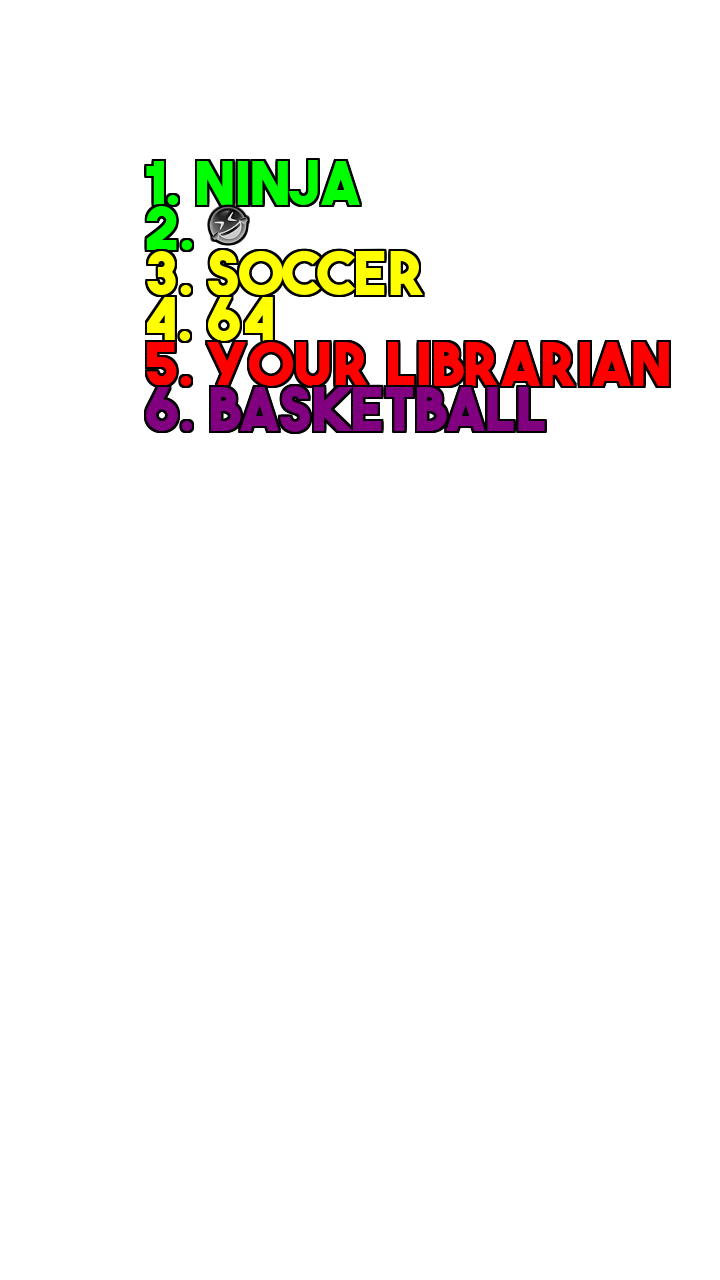
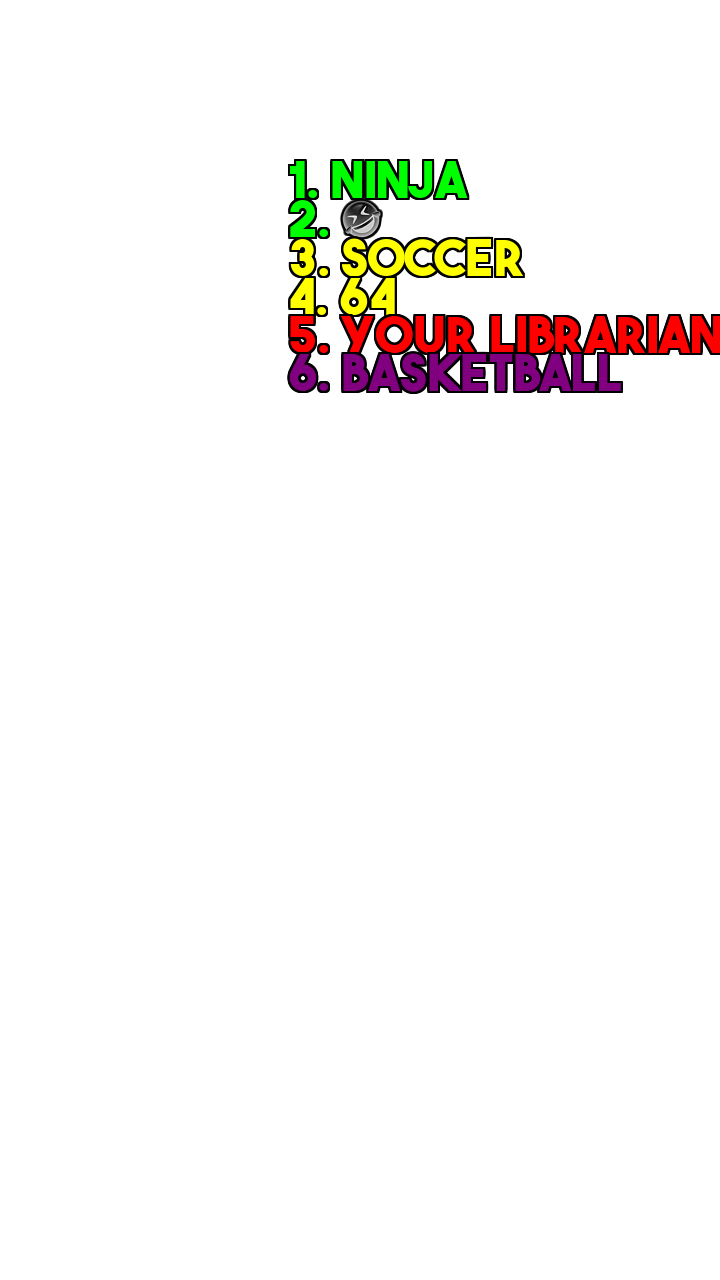
srt good!
yuh yuh

Changed region(s): [[0.1833, 0.125, 1.0, 0.3438]]

diff --git a/listsrt.py b/listsrt.py
@@ -38,16 +38,16 @@ def create_new_srt(new_srt_file, timestamps, answers):
         for i, (start, end) in enumerate(timestamps):
             if i < len(timestamps) - 1:
                 file.write(f'{i+2}\n{start} --> {timestamps[i+1][0]}\n{sections[i+1]}\n\n')
-            # else:
-            #     file.write(f'{i+2}\n{start} --> {end}\n{sections[i+1]}\n\n')
-            #     final_section = f'1. {answers[0]} (green)\n2. {answers[1]} (green)\n3. {answers[2]} (yellow)\n4. {answers[3]} (yellow)\n5. {answers[4]} (red)\n6. {answers[5]} (purple)'
-            #     file.write(f'{len(timestamps) + 2}\n{end} --> {end}\n{final_section}\n\n')
+            else:
+                file.write(f'{i+2}\n{start} --> {end}\n{sections[i+1]}\n\n')
+                final_section = f'1. {answers[0]} (green)\n2. {answers[1]} (green)\n3. {answers[2]} (yellow)\n4. {answers[3]} (yellow)\n5. {answers[4]} (red)\n6. {answers[5]} (purple)'
+                file.write(f'{len(timestamps) + 2}\n{end} --> {end}\n{final_section}\n\n')
 
 # Example usage
 subtitles_file = 'subtitles.srt'
 new_srt_file = 'list.srt'
 answers = ['Ninja', '🤣', 'Soccer', '64', 'Your Librarian', 'Basketball']
 answers2 = answers.copy()
-answers2[1] = "this one"
+answers2[1] = "this one,"
 timestamps = extract_timestamps(subtitles_file, answers2)
 create_new_srt(new_srt_file, timestamps, answers)

diff --git a/AddList.py b/AddList.py
@@ -57,10 +57,10 @@ def draw_text_with_stroke(draw, position, text, font, text_color, stroke_color, 
 def create_text_image(text, image_size):
     image = Image.new('RGBA', image_size, (255, 255, 255, 0))
     draw = ImageDraw.Draw(image)
-    bold_font = ImageFont.truetype("Assets/Fonts/boldfont.ttf", 60)  # Bold font
+    bold_font = ImageFont.truetype("Assets/Fonts/boldfont.ttf", 50)  # Bold font
     emoji_font = ImageFont.truetype("/System/Library/Fonts/Apple Color Emoji.ttc", 40)  # Font that supports emojis
 
-    text_x, text_y = image_size[0] // 5, image_size[1] // 8  # Position text more centered to the top right
+    text_x, text_y = image_size[0] // 2.5, image_size[1] // 8  # Position text more centered to the top right
     lines = text.split('\n')
     for line in lines:
         text, color = extract_color(line)
@@ -73,7 +73,7 @@ def create_text_image(text, image_size):
             text_x += draw.textbbox((0, 0), part, font=font)[2]
         
         text_y += bold_font.getbbox(line)[3]
-        text_x = image_size[0] // 5  # Reset x position after each line
+        text_x = image_size[0] // 2.5  # Reset x position after each line
 
     combined_path = 'text_overlay.png'
     image.save(combined_path)
